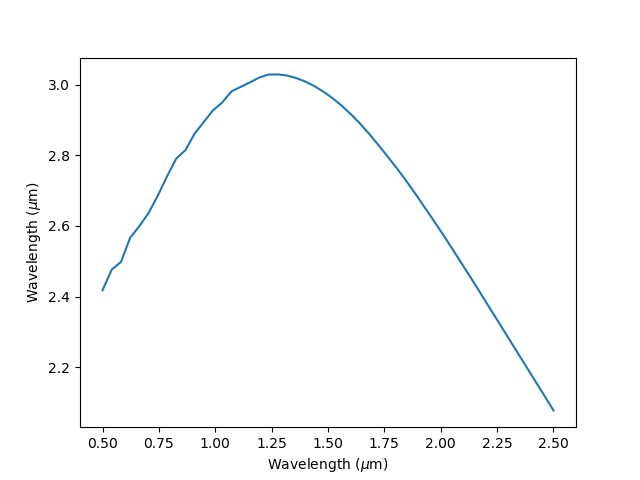
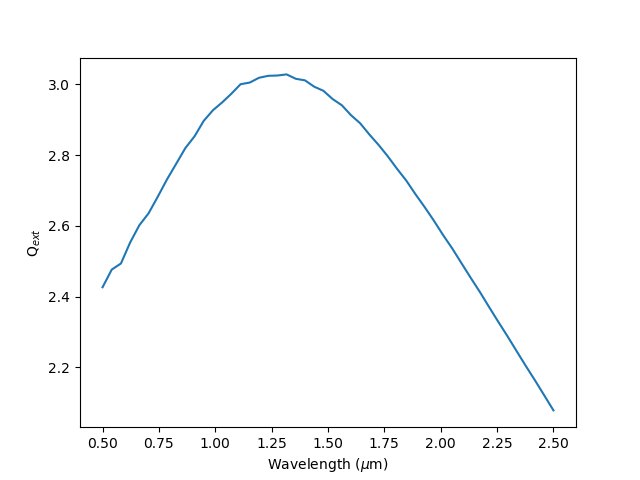
added example doc for log-normal distribution

diff --git a/docs/snippets/plot_r_dist.py b/docs/snippets/plot_r_dist.py
@@ -1,0 +1,14 @@
+from dust_mie import calc_mie
+import matplotlib.pyplot as plt
+
+median_r = 1.0
+s = 0.5
+
+r, dr = calc_mie.get_r_to_evaluate(r=median_r,s=s)
+
+n = calc_mie.lognorm(r,s=s,med=median_r)
+
+plt.plot(r,n)
+plt.xlabel('Particle Radius ($\mu$m)')
+plt.ylabel('Number')
+plt.savefig('radius_distribution.png')

diff --git a/docs/snippets/plot_qext_distribution.py b/docs/snippets/plot_qext_distribution.py
@@ -7,5 +7,5 @@ qext, qsca, qback, g = calc_mie.get_mie_coeff_distribution(wave,r=1.0,material='
 
 plt.plot(wave,qext)
 plt.xlabel('Wavelength ($\mu$m)')
-plt.ylabel('Wavelength ($\mu$m)')
+plt.ylabel('Q$_{ext}$')
 plt.savefig('extinct_func_distribution.png')

diff --git a/docs/basic_usage.rst b/docs/basic_usage.rst
@@ -34,3 +34,15 @@ Here, the sigma of the distribution is set to be 0.5
 .. image:: snippets/extinct_func_distribution.png
   :width: 400
   :alt: Extinction as a function of wavelength with lognormal distribution
+
+Plot the Particle Size Distribution
+~~~~~~~~~~~~~~~~~~~~~~~~~~~~~~~~~~~~~~
+You can plot the particle size distribution for a log-normal function.
+
+.. literalinclude:: snippets/plot_r_dist.py
+
+..   :language: python
+
+.. image:: snippets/radius_distribution.png
+  :width: 400
+  :alt: Number of particles as a function of size
